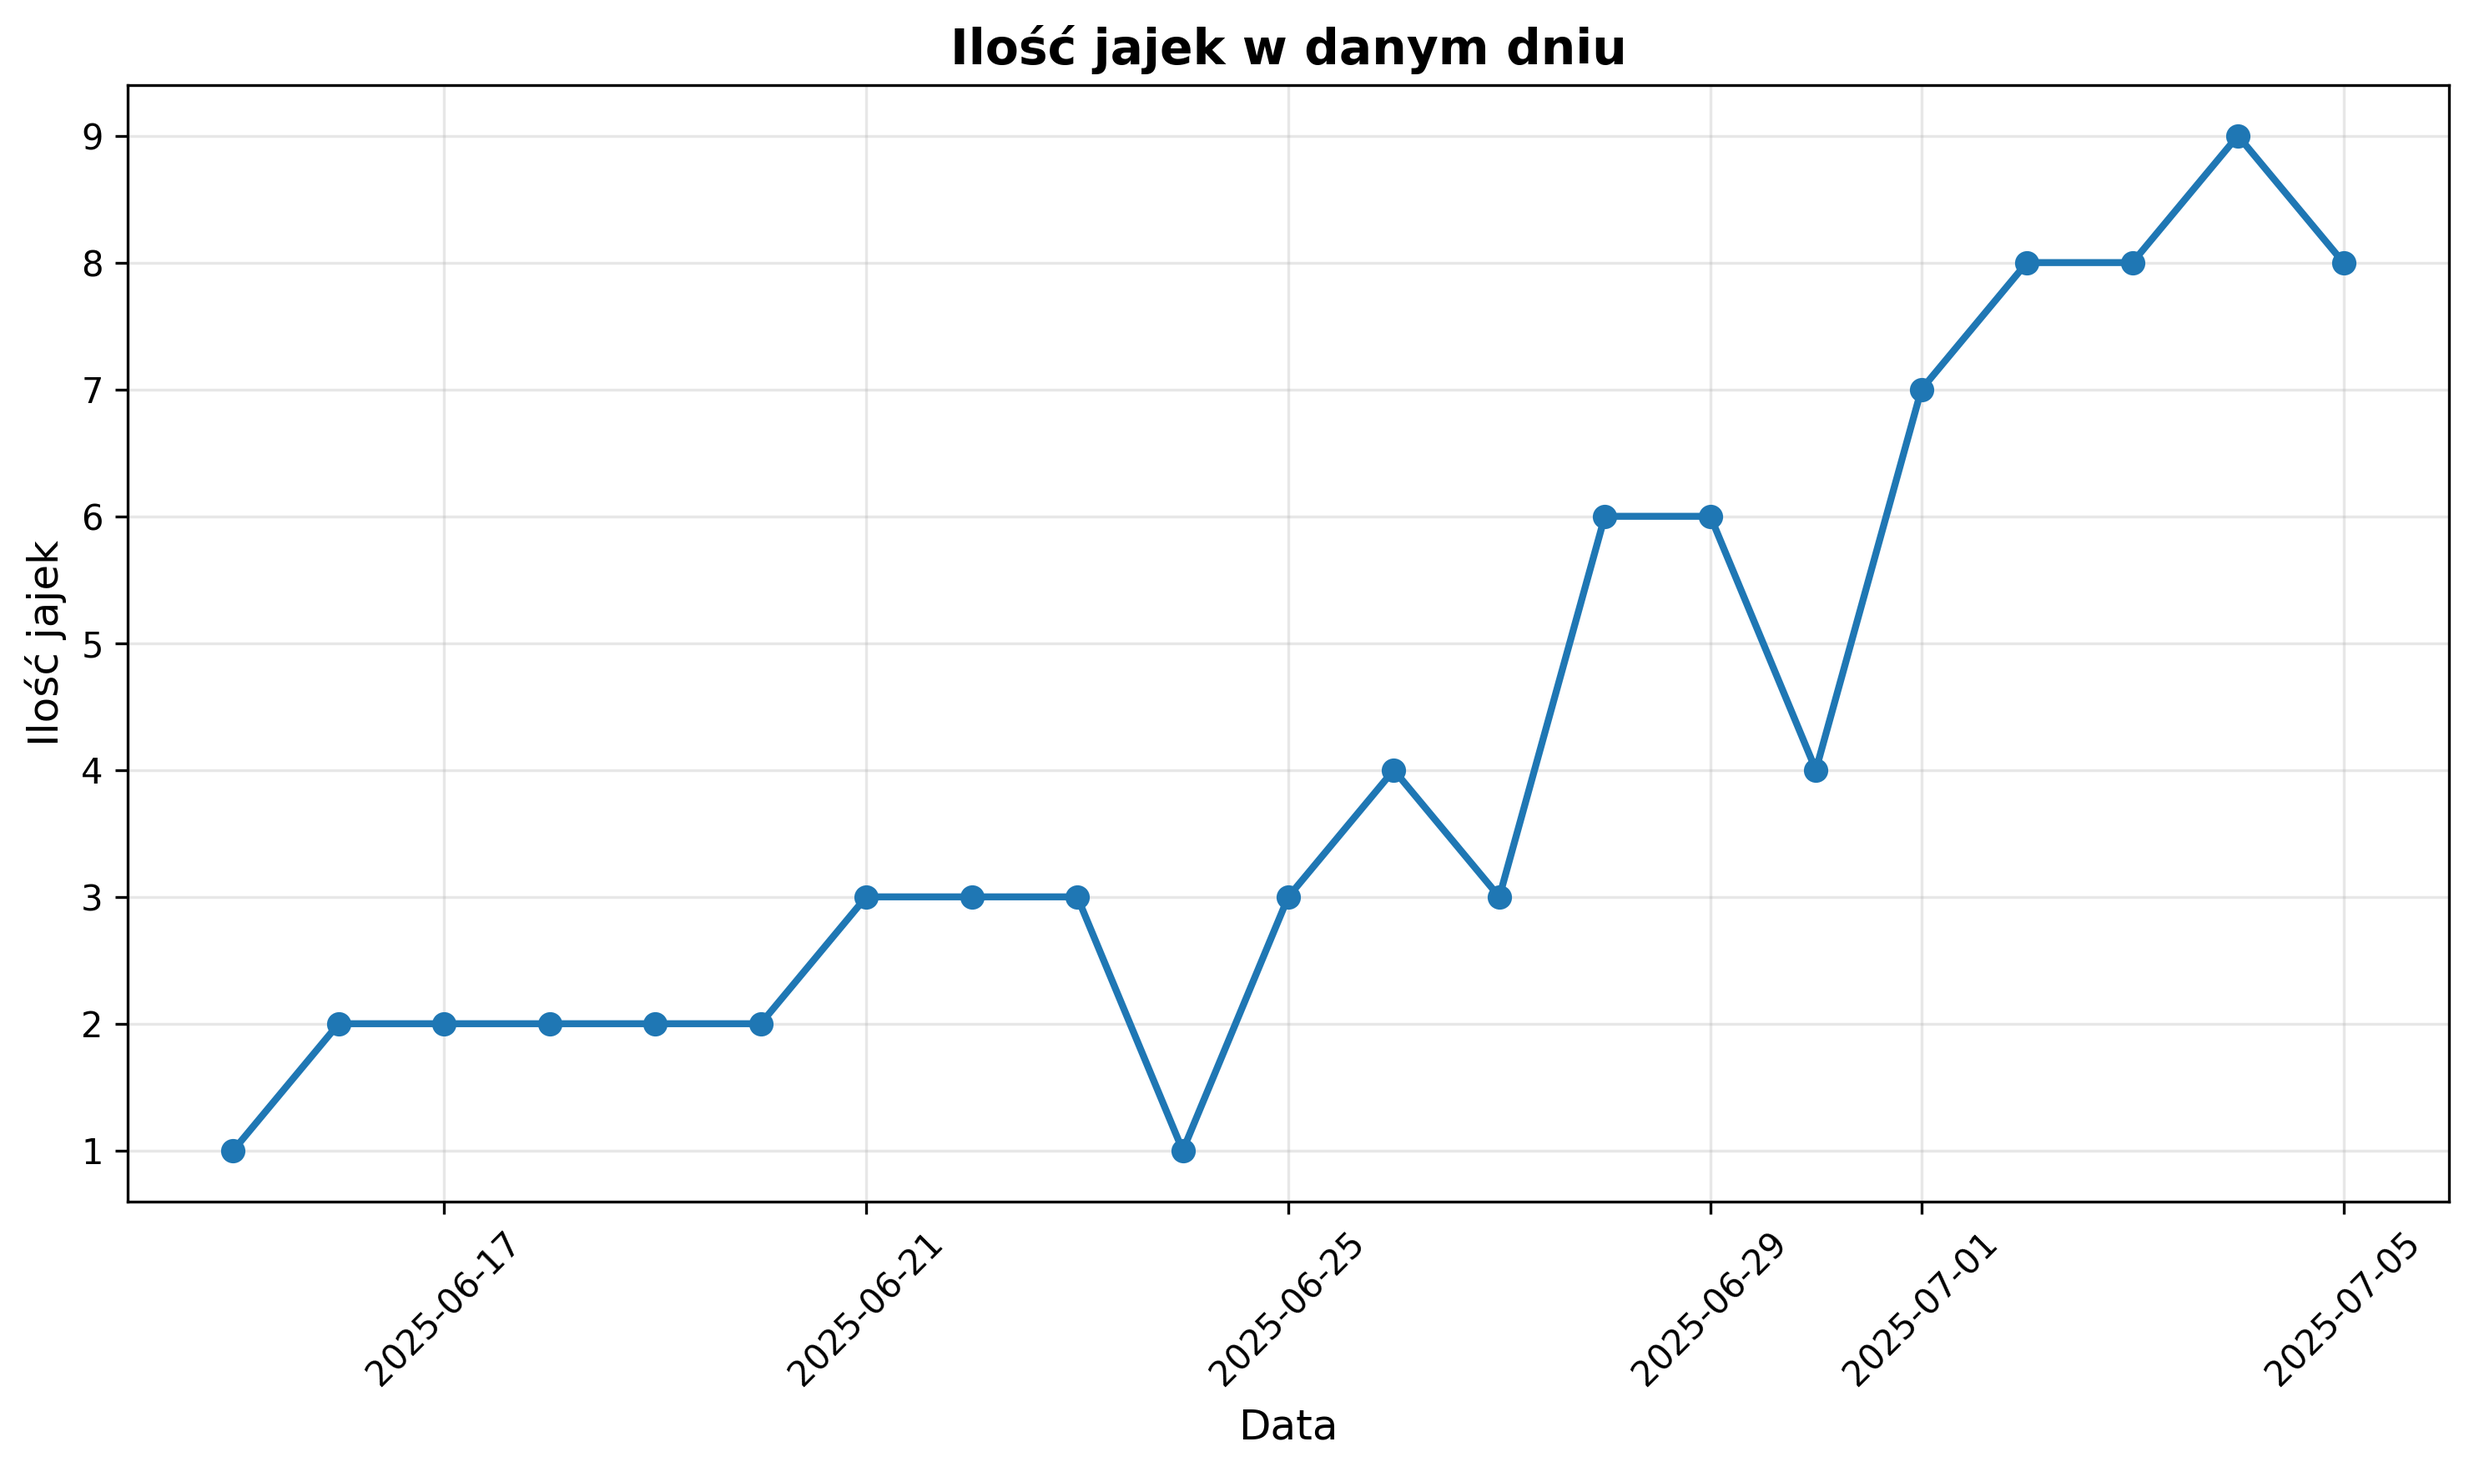
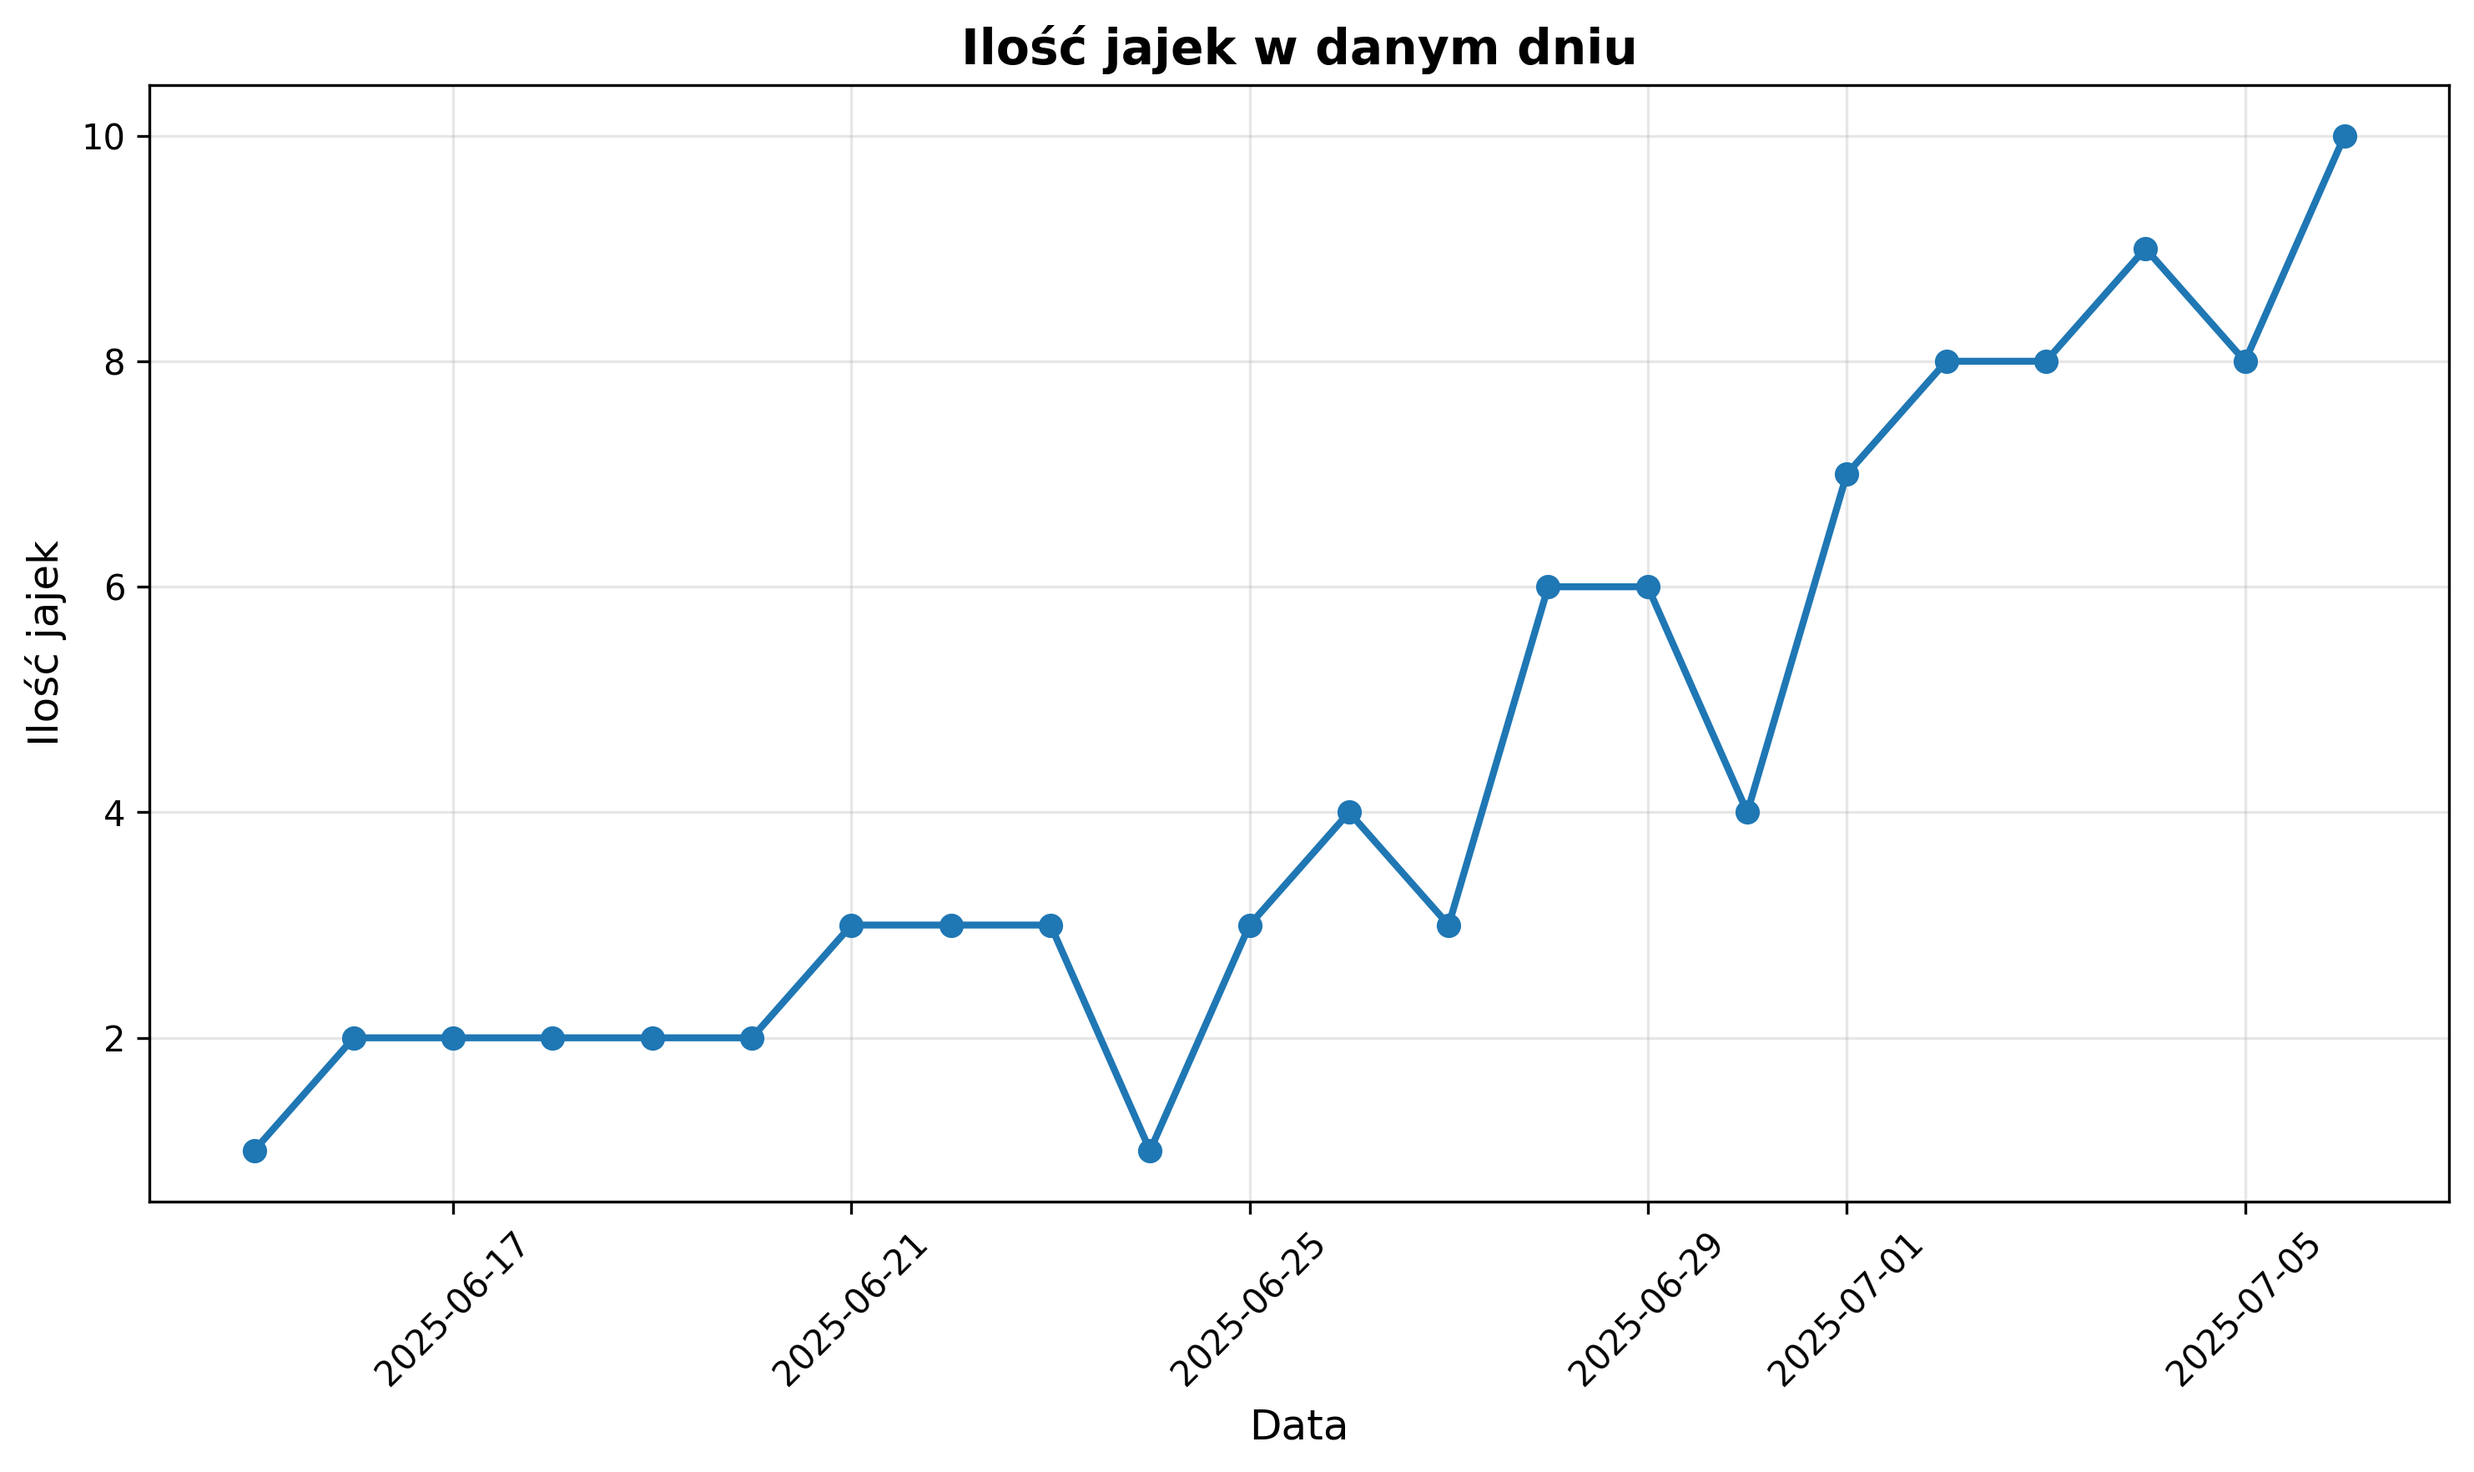
Chart update

diff --git a/jajka.html b/jajka.html
@@ -7,7 +7,7 @@
 </head>
 <body>
     <div style="font-size: 20px; font-style: italic;">Ostatnia aktualizacja:</div>
-    <div style="font-size: 18px; font-style: italic; color: red;">2025-07-05 13:55:20</div>
+    <div style="font-size: 18px; font-style: italic; color: red;">2025-07-06 21:38:08</div>
     <img src="img/chart.png" alt="" style="width: 100vw; height: 100vh; object-fit: contain; display: block; margin: 0 auto; position: absolute; top: 50%; left: 50%; transform: translate(-50%, -50%);">
 </body>
 </html>
